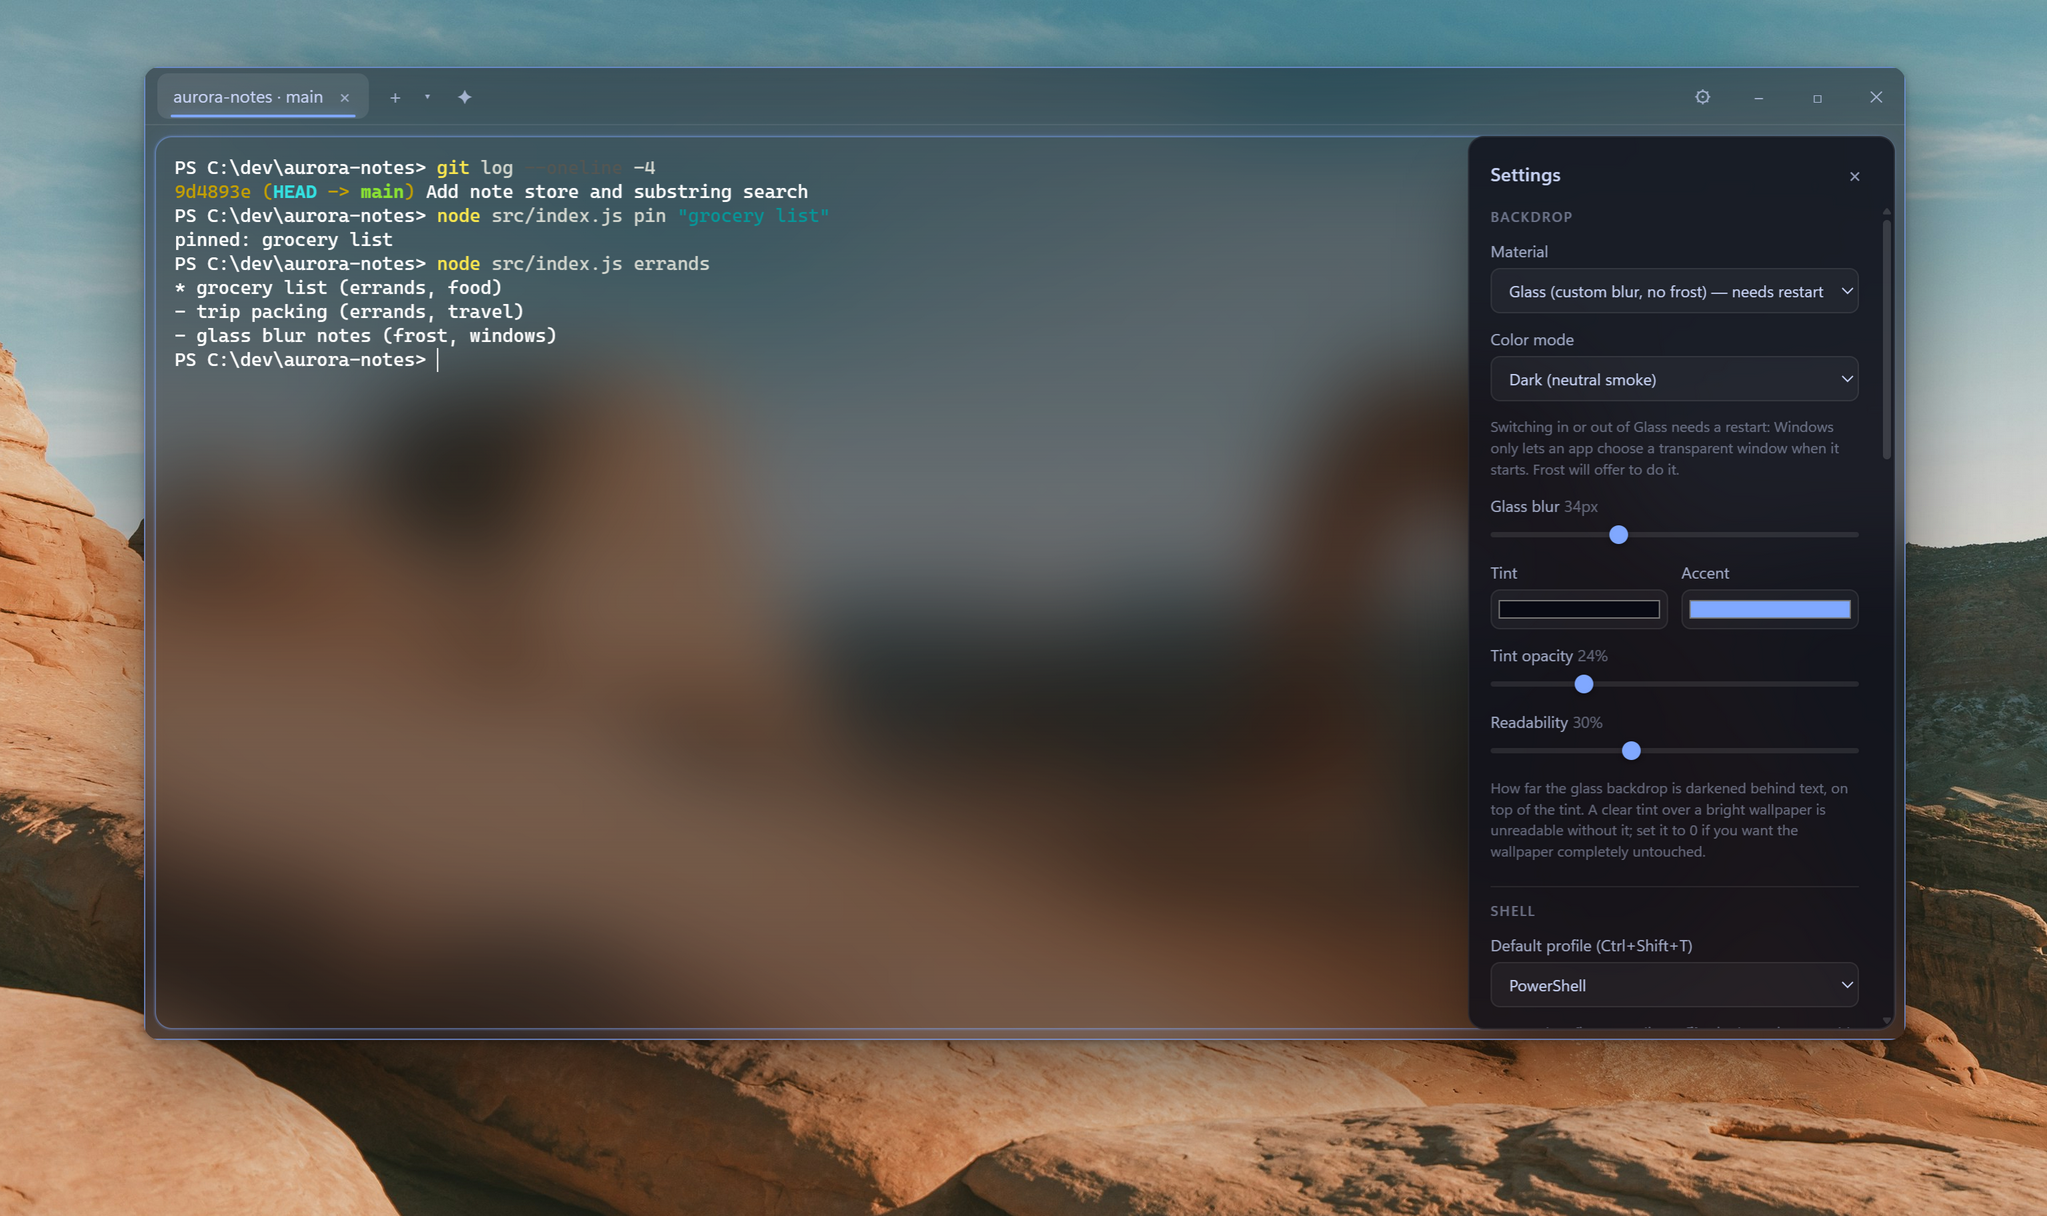
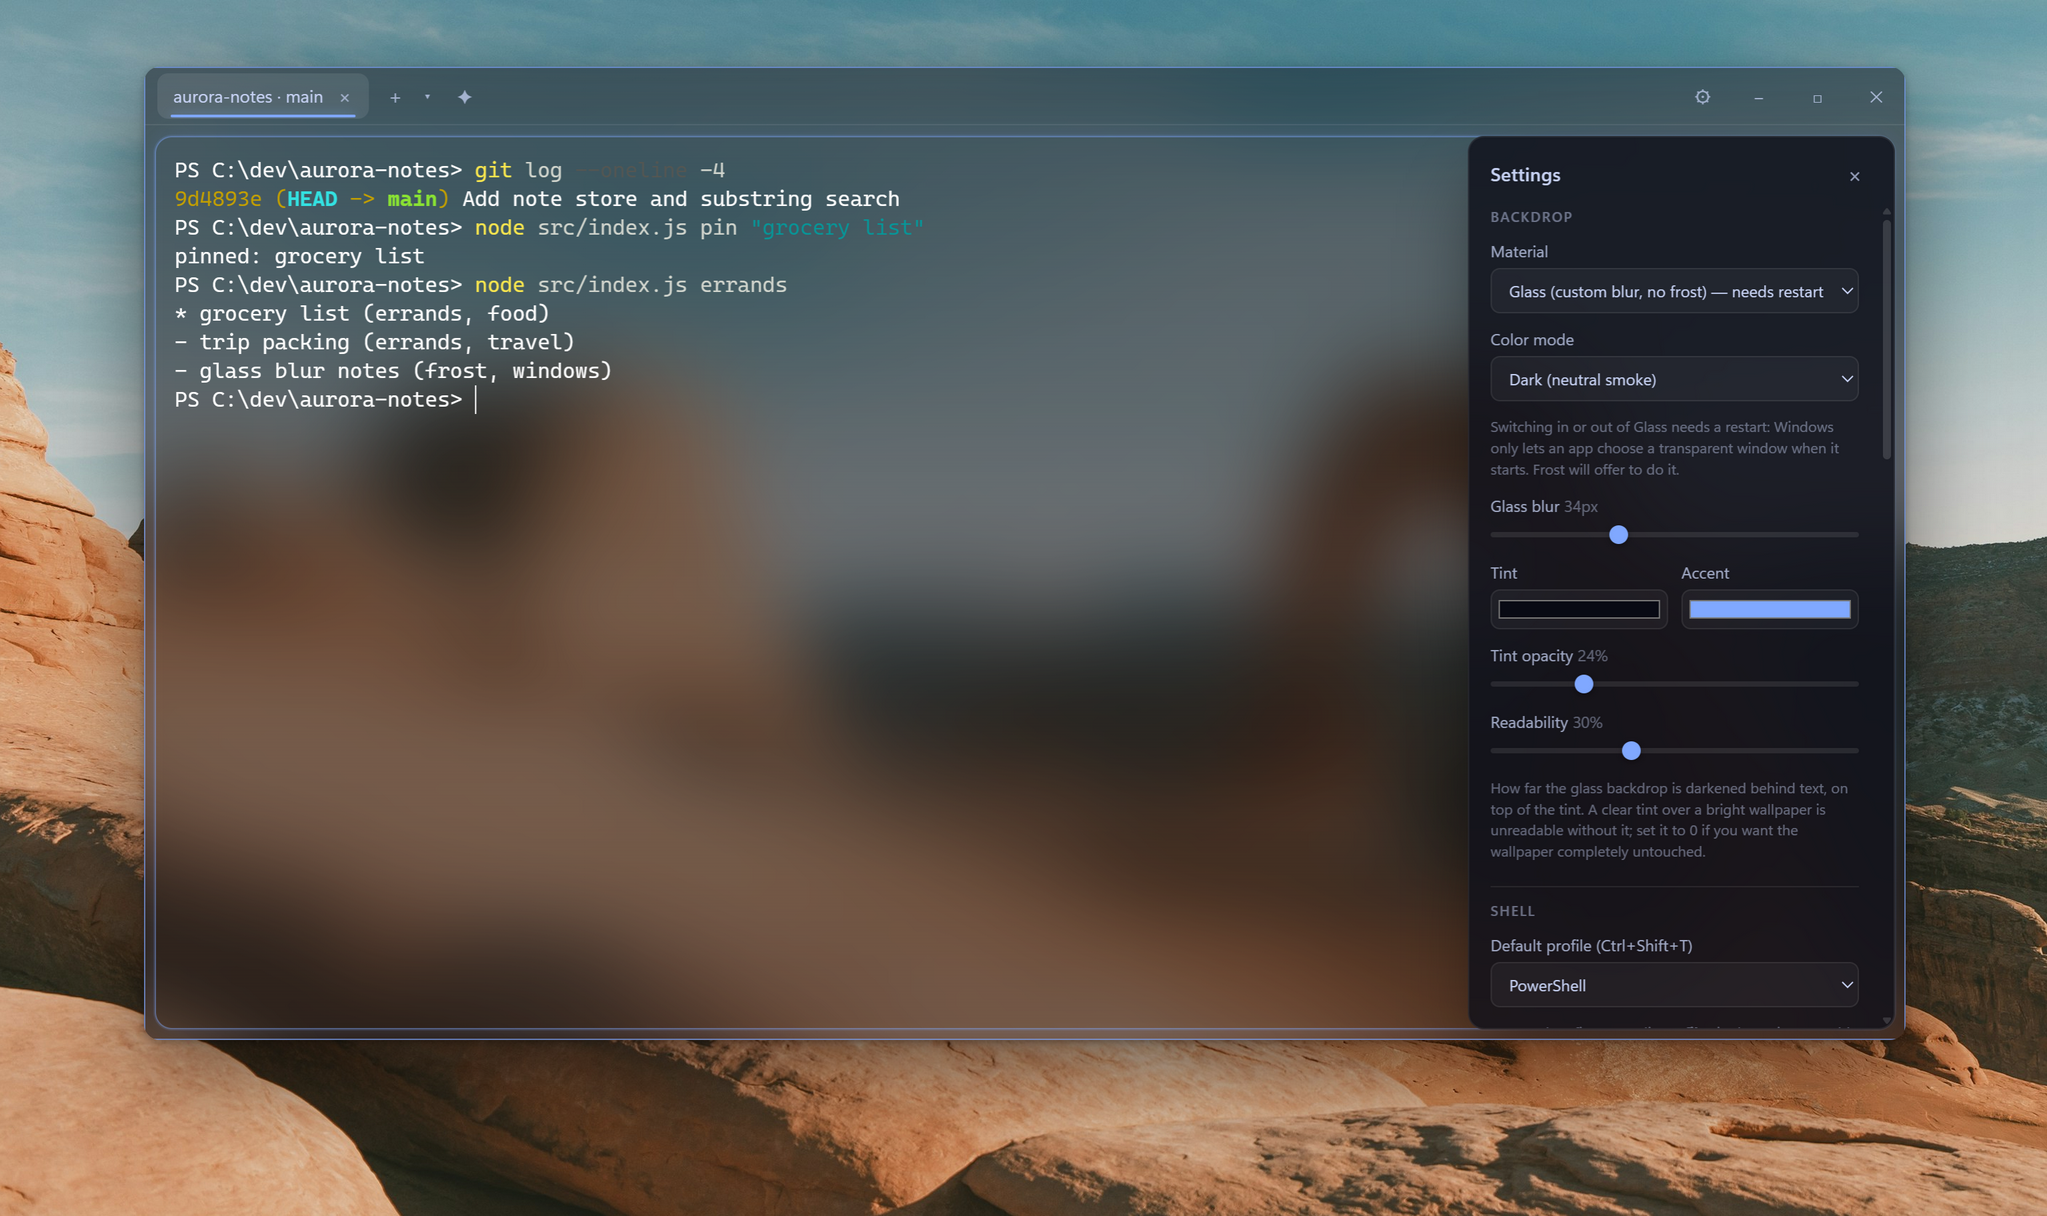
Regenerate the screenshots at the shipped text defaults
The committed set was taken at 14px in the old blue-tinted white, so the README
advertised text the app no longer renders. The harness writes its own theme and
replaces the default font block wholesale, so it needed the size and weight
spelled out rather than inherited.

Changed region(s): [[0.0616, 0.125, 0.4309, 0.3438]]

diff --git a/tools/shots.js b/tools/shots.js
@@ -167,7 +167,10 @@ function scenarioConfig(dir, scenario) {
         padding: 14,
         cornerRadius: 13,
         startDir: DEMO,
-        font: { family: '"Cascadia Mono", Consolas, monospace', size: 14, lineHeight: 1.15 },
+        // Spelled out rather than inherited: the theme written here replaces the
+        // default's font block wholesale, so a screenshot would silently keep 14px
+        // and normal weight while the app shipped something else.
+        font: { family: '"Cascadia Mono", Consolas, monospace', size: 16, weight: 350, lineHeight: 1.15 },
         // last, so a scenario can override any of the above
         ...(scenario.theme || {})
       },
